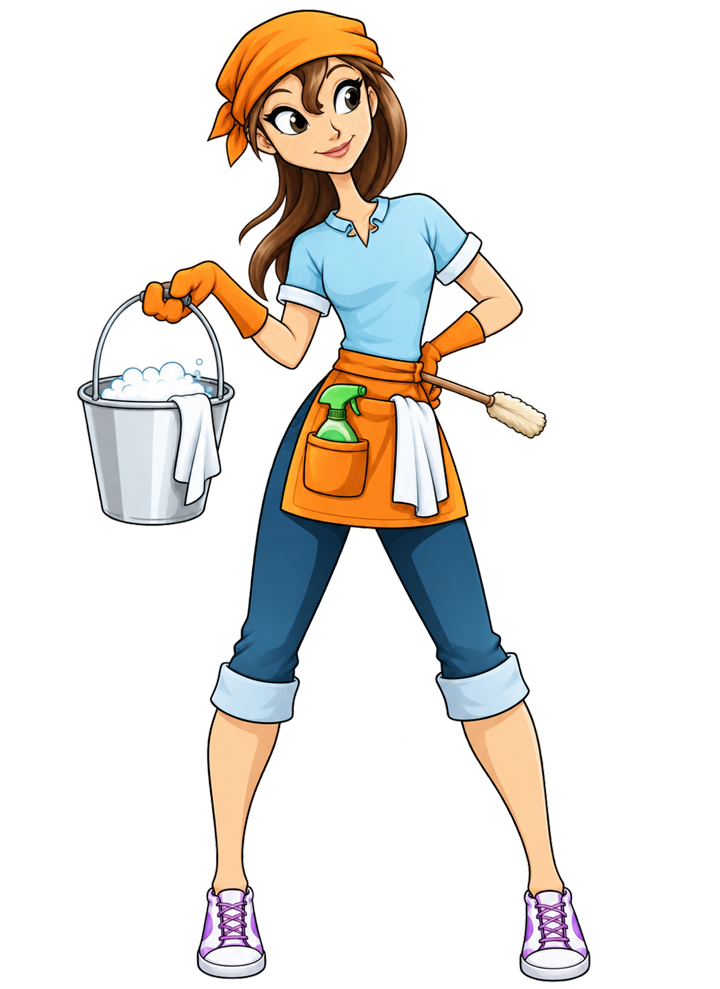
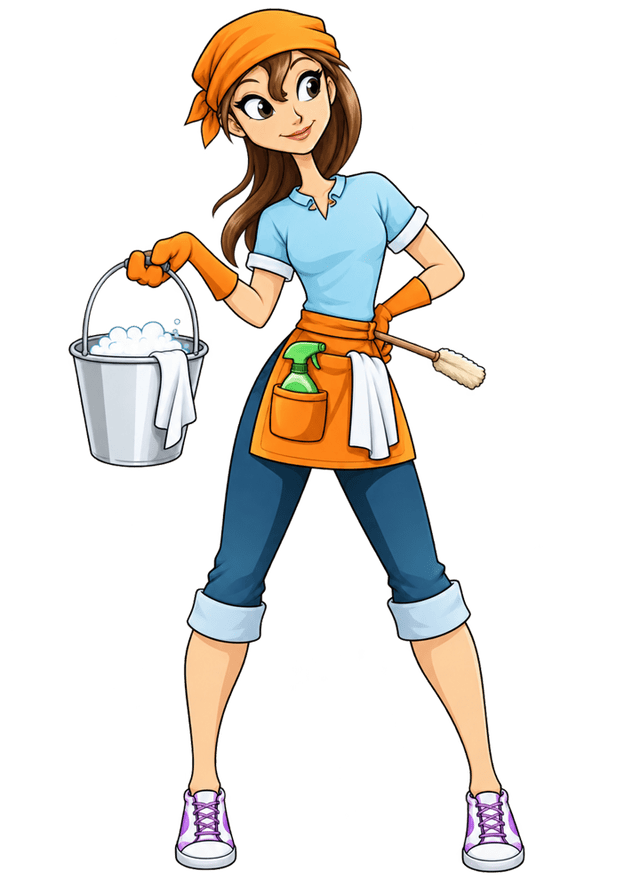
Weekend polish: faster mascot, mobile layout, Comic Neue
Compress transparent mascot (~509KB→90KB), tighten mobile hero/phone
sizing, restore Comic Neue title, keep static oval postcard vibe.

diff --git a/index.html b/index.html
@@ -8,7 +8,7 @@
   <meta name="theme-color" content="#0a3d5c" />
   <link rel="preconnect" href="https://fonts.googleapis.com" />
   <link rel="preconnect" href="https://fonts.gstatic.com" crossorigin />
-  <link href="https://fonts.googleapis.com/css2?family=Handlee&display=swap" rel="stylesheet" />
+  <link href="https://fonts.googleapis.com/css2?family=Comic+Neue:wght@700&display=swap" rel="stylesheet" />
   <style>
     :root {
       --navy: #06324a;
@@ -20,6 +20,7 @@
       --ink: #f4fbff;
     }
     * { box-sizing: border-box; }
+    html { -webkit-text-size-adjust: 100%; }
     body {
       margin: 0;
       min-height: 100vh;
@@ -31,11 +32,11 @@
         linear-gradient(160deg, var(--navy) 0%, var(--teal) 45%, var(--navy-deep) 100%);
       background-size: 180px 180px, 220px 220px, auto;
     }
-    .frame { max-width: 980px; margin: 0 auto; padding: 1.5rem; }
+    .frame { max-width: 980px; margin: 0 auto; padding: 1.25rem 1rem 1.75rem; }
     .card {
       border: 3px dashed rgba(120, 200, 160, 0.85);
       border-radius: 28px;
-      padding: 1.5rem;
+      padding: 1.35rem;
       background: linear-gradient(180deg, rgba(8, 55, 80, 0.55), rgba(4, 30, 46, 0.72));
       box-shadow: 0 24px 60px rgba(0, 0, 0, 0.35);
     }
@@ -48,7 +49,7 @@
     .hero-wrap {
       position: relative;
       width: 100%;
-      max-width: 340px;
+      max-width: 320px;
       margin: 0 auto;
     }
     /* Business-card style oval: white center → sky blue edge (pure CSS) */
@@ -87,17 +88,17 @@
     }
     .panel h1 {
       margin: 0 0 0.35rem;
-      font-family: Handlee, cursive;
-      font-size: clamp(2.4rem, 6vw, 3.5rem);
-      font-weight: 400;
+      font-family: "Comic Neue", "Comic Sans MS", cursive;
+      font-size: clamp(2.2rem, 7vw, 3.5rem);
+      font-weight: 700;
       color: var(--gold);
       letter-spacing: 0.01em;
       line-height: 1.05;
       text-shadow: 0 2px 0 rgba(0,0,0,0.25);
     }
-    .owner { margin: 0 0 1.25rem; font-size: 1.15rem; color: var(--foam); }
-    .lede { margin: 0 0 1.25rem; line-height: 1.55; color: rgba(244,251,255,0.92); max-width: 36rem; }
-    .services { list-style: none; margin: 0 0 1.25rem; padding: 0; }
+    .owner { margin: 0 0 1.1rem; font-size: 1.15rem; color: var(--foam); }
+    .lede { margin: 0 0 1.15rem; line-height: 1.55; color: rgba(244,251,255,0.92); max-width: 36rem; }
+    .services { list-style: none; margin: 0 0 1.15rem; padding: 0; }
     .services li { position: relative; padding: 0.35rem 0 0.35rem 1.35rem; font-size: 1.05rem; }
     .services li::before {
       content: "";
@@ -106,23 +107,47 @@
       background: var(--gold);
       box-shadow: 0 0 0 3px rgba(245, 197, 66, 0.25);
     }
-    .area { margin: 0 0 1.5rem; font-style: italic; color: rgba(232,246,251,0.9); }
-    .cta-row { display: flex; flex-wrap: wrap; gap: 0.75rem; align-items: center; }
+    .area { margin: 0 0 1.35rem; font-style: italic; color: rgba(232,246,251,0.9); }
+    .cta-row {
+      display: flex;
+      flex-wrap: wrap;
+      gap: 0.65rem 0.85rem;
+      align-items: center;
+    }
     .phone-img {
       display: block;
-      height: 3.1rem;
+      height: 3.25rem;
       width: auto;
-      max-width: 100%;
+      max-width: min(100%, 22rem);
       filter: drop-shadow(0 8px 18px rgba(0,0,0,0.28));
       user-select: none;
       -webkit-user-drag: none;
       pointer-events: none;
     }
     .note { font-size: 0.95rem; color: rgba(232,246,251,0.85); }
-    footer { margin-top: 1.25rem; text-align: center; font-size: 0.85rem; color: rgba(232,246,251,0.7); }
+    footer {
+      margin-top: 1.15rem;
+      text-align: center;
+      font-size: 0.85rem;
+      color: rgba(232,246,251,0.7);
+    }
+    footer p { margin: 0; }
     @media (max-width: 760px) {
-      .grid { grid-template-columns: 1fr; }
-      .hero-wrap { max-width: 100%; }
+      .frame { padding: 0.85rem 0.75rem 1.35rem; }
+      .card { padding: 1.1rem 1rem; border-radius: 22px; }
+      .grid { grid-template-columns: 1fr; gap: 1.1rem; }
+      .hero-wrap { max-width: 240px; }
+      .hero-oval { border-width: 5px; }
+      .panel h1 { text-align: center; }
+      .owner, .lede, .area { text-align: center; }
+      .services { max-width: 22rem; margin-left: auto; margin-right: auto; }
+      .cta-row { justify-content: center; }
+      .phone-img { height: 2.85rem; }
+      .note { width: 100%; text-align: center; }
+    }
+    @media (max-width: 380px) {
+      .hero-wrap { max-width: 200px; }
+      .phone-img { height: 2.55rem; }
     }
   </style>
 </head>
@@ -136,10 +161,11 @@
             <img
               class="hero-art"
               src="mascot.png"
-              width="720"
-              height="989"
+              width="640"
+              height="879"
               alt="Made to Clean mascot — Ave ready to clean"
               decoding="async"
+              fetchpriority="high"
             />
           </div>
         </div>
